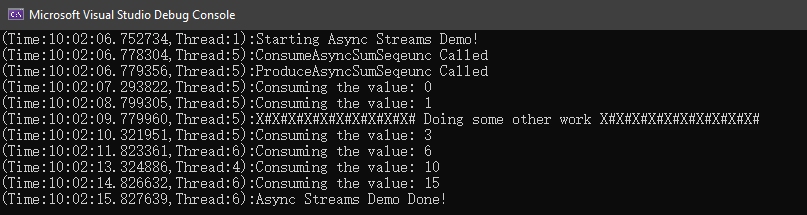
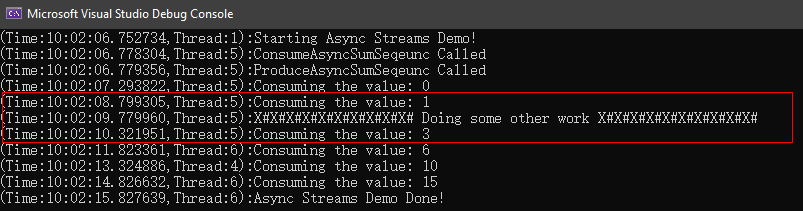
Add

Changed region(s): [[0.0, 0.1422, 0.9963, 0.9668], [0.0, 0.0284, 0.3113, 0.1137]]

diff --git a/README.md b/README.md
@@ -1,11 +1,269 @@
 # AsyncStreamsInCShaper8.0
 
-很开心今天能与大家一起聊聊C# 8.0中的新特性-`Async Stream`,一般人通常看到这个词表情是这样.  
+很开心今天能与大家一起聊聊C# 8.0中的新特性-`Async Streams`,一般人通常看到这个词表情是这样.  
 <img src="https://raw.githubusercontent.com/liuzhenyulive/AsyncStreamsInCShaper8.0/master/Pic/mengbi.jpg" width="100" height="100"/>  
 简单说,其实就是C# 8.0中支持`await foreach`.  
 <img src="https://raw.githubusercontent.com/liuzhenyulive/AsyncStreamsInCShaper8.0/master/Pic/mengbi2.jpg" width="100" height="100"/>  
 或者说,C# 8.0中支持异步返回枚举类型`async Task<IEnumerable<T>>`.  
 <img src="https://raw.githubusercontent.com/liuzhenyulive/AsyncStreamsInCShaper8.0/master/Pic/mengbi3.jpeg" width="100" height="100"/>   
-好吧,还不懂?Good,这篇文章就是为你写的了.  
+好吧,还不懂?Good,这篇文章就是为你写的,看完这篇文章,你就能明白它的神奇之处了.  
 
-`await foreach`, 这个功能已经发布很久了,在去年的[Build 2018 The future of C#](https://channel9.msdn.com/Events/Build/2018/BRK2155)就有演示,最近VS 2019发布,在该版本的[Release Notes](https://docs.microsoft.com/en-us/visualstudio/releases/2019/release-notes)中,我再次看到了这个新特性,因为对异步编程不太熟悉,所以借着这个机会,学习新特性的同时,把异步编程也过一遍.
+## 为什么写这篇文章
+
+`Async Streams`这个功能已经发布很久了,在去年的[Build 2018 The future of C#](https://channel9.msdn.com/Events/Build/2018/BRK2155)就有演示,最近VS 2019发布,在该版本的[Release Notes](https://docs.microsoft.com/en-us/visualstudio/releases/2019/release-notes)中,我再次看到了这个新特性,因为对异步编程不太熟悉,所以借着这个机会,学习新特性的同时,把异步编程重温一遍.  
+本文内容,参考了`Bassam Alugili`在InfoQ中发表的[Async Streams in C# 8](https://www.infoq.com/articles/Async-Streams),撰写本博客前我已联系上该作者并得到他支持.
+
+## Async / Await
+
+C# 5 引入了 Async/Await，用以提高用户界面响应能力和对 Web 资源的访问能力。换句话说，异步方法用于执行不阻塞线程并返回一个标量结果的异步操作。
+
+微软多次尝试简化异步操作，因为 Async/Await 模式易于理解，所以在开发人员当中获得了良好的认可。
+
+详见[The Task asynchronous programming model in C#](https://docs.microsoft.com/en-us/dotnet/csharp/programming-guide/concepts/async/)
+
+## 常规示例
+
+要了解问什么需要`Async Streams`,我们先来看看这样的一个示例,求出5以内的整数的和.
+
+``` c#
+static int SumFromOneToCount(int count)
+        {
+            ConsoleExt.WriteLine("SumFromOneToCount called!");
+
+            var sum = 0;
+            for (var i = 0; i <= count; i++)
+            {
+                sum = sum + i;
+            }
+            return sum;
+        }
+```
+
+调用方法.
+
+``` c#
+static void Main(string[] args)
+        {
+            const int count = 5;
+            ConsoleExt.WriteLine($"Starting the application with count: {count}!");
+            ConsoleExt.WriteLine("Classic sum starting.");
+            ConsoleExt.WriteLine($"Classic sum result: {SumFromOneToCount(count)}");
+            ConsoleExt.WriteLine("Classic sum completed.");
+            ConsoleExt.WriteLine("################################################");
+        }
+```
+
+输出结果.
+
+<img src="https://github.com/liuzhenyulive/AsyncStreamsInCShaper8.0/raw/master/Pic/base.png" width="1000" height="200"/>  
+
+可以看到,整个过程就一个线程Id为1的线程自上而下执行,这是最基础的做法.
+
+## Yield Return
+
+接下来,我们使用[yield](https://docs.microsoft.com/en-us/dotnet/csharp/language-reference/keywords/yield)运算符使得这个方法编程延迟加载,如下所示.  
+
+``` c#
+static IEnumerable<int> SumFromOneToCountYield(int count)
+        {
+            ConsoleExt.WriteLine("SumFromOneToCountYield called!");
+
+            var sum = 0;
+            for (var i = 0; i <= count; i++)
+            {
+                sum = sum + i;
+
+                yield return sum;
+            }
+        }
+```
+
+主函数
+
+``` c#
+static void Main(string[] args)
+        {
+            const int count = 5;
+            ConsoleExt.WriteLine("Sum with yield starting.");
+            foreach (var i in SumFromOneToCountYield(count))
+            {
+                ConsoleExt.WriteLine($"Yield sum: {i}");
+            }
+            ConsoleExt.WriteLine("Sum with yield completed.");
+
+            ConsoleExt.WriteLine("################################################");
+            ConsoleExt.WriteLine(Environment.NewLine);
+        }
+```
+
+运行结果如下.
+
+<img src="https://github.com/liuzhenyulive/AsyncStreamsInCShaper8.0/raw/master/Pic/YeildReturn.png" width="1000" height="200"/>  
+
+正如你在输出窗口中看到的那样，结果被分成几个部分返回，而不是作为一个值返回。以上显示的累积结果被称为惰性枚举。但是，仍然存在一个问题，即 sum 方法阻塞了代码的执行。如果你查看线程ID，可以看到所有东西都在主线程1中运行,这显然不完美,继续改造.  
+
+## Async Return
+
+我们试着将async用于SumFromOneToCount方法(没有yield关键字).
+
+``` c#
+static async Task<int> SumFromOneToCountAsync(int count)
+        {
+            ConsoleExt.WriteLine("SumFromOneToCountAsync called!");
+
+            var result = await Task.Run(() =>
+            {
+                var sum = 0;
+
+                for (var i = 0; i <= count; i++)
+                {
+                    sum = sum + i;
+                }
+                return sum;
+            });
+
+            return result;
+        }
+```
+
+主函数.
+
+``` c#
+static async Task Main(string[] args)
+        {
+            const int count = 5;
+            ConsoleExt.WriteLine("async example starting.");
+            // Sum runs asynchronously! Not enough. We need sum to be async with lazy behavior.
+            var result = await SumFromOneToCountAsync(count);
+            ConsoleExt.WriteLine("async Result: " + result);
+            ConsoleExt.WriteLine("async completed.");
+
+            ConsoleExt.WriteLine("################################################");
+            ConsoleExt.WriteLine(Environment.NewLine);
+        }
+```
+
+运行结果.
+
+<img src="https://github.com/liuzhenyulive/AsyncStreamsInCShaper8.0/raw/master/Pic/AsyncReturn.png" width="1000" height="200"/>  
+
+我们可以看到计算过程是在另一个线程中运行，但结果仍然是作为一个值返回！
+
+如果我们想把惰性枚举（yield return）与异步方法结合起来,即返回Task<IEnumerable<T>,这怎么实现呢?
+
+## Task<IEnumerable<T>>
+
+我们根据假设把代码改造一遍,使用`Task<IEnumerable<T>>`来进行计算.
+
+<img src="https://github.com/liuzhenyulive/AsyncStreamsInCShaper8.0/raw/master/Pic/NotSupportError.png" width="1470" height="560"/> 
+
+可以看到,直接出现错误.
+
+## IAsyncEnumerable
+
+其实,在C# 8.0中Task<IEnumerable<T>>这种组合称为IAsyncEnumerable<T>。这个新功能为我们提供了一种很好的技术来解决拉异步延迟加载的问题，例如从网站下载数据或从文件或数据库中读取记录,与 IEnumerable<T> 和 IEnumerator<T> 类似，Async Streams 提供了两个新接口 IAsyncEnumerable<T> 和 IAsyncEnumerator<T>，定义如下：
+
+``` c#
+public interface IAsyncEnumerable<out T>
+    {
+        IAsyncEnumerator<T> GetAsyncEnumerator();
+    }
+
+    public interface IAsyncEnumerator<out T> : IAsyncDisposable
+    {
+        Task<bool> MoveNextAsync();
+        T Current { get; }
+    }
+
+   // Async Streams Feature 可以被异步销毁 
+   public interface IAsyncDisposable
+   {
+      Task DiskposeAsync();
+   }
+```
+
+## AsyncStream
+
+下面,我们就来见识一下AsyncStrema的威力,我们使用IAsyncEnumerable来对函数进行改造,如下.
+
+``` C#
+static async Task ConsumeAsyncSumSeqeunc(IAsyncEnumerable<int> sequence)
+        {
+            ConsoleExt.WriteLineAsync("ConsumeAsyncSumSeqeunc Called");
+
+            await foreach (var value in sequence)
+            {
+                ConsoleExt.WriteLineAsync($"Consuming the value: {value}");
+
+                // simulate some delay!
+                await Task.Delay(TimeSpan.FromSeconds(1));
+            };
+        }
+
+        private static async IAsyncEnumerable<int> ProduceAsyncSumSeqeunc(int count)
+        {
+            ConsoleExt.WriteLineAsync("ProduceAsyncSumSeqeunc Called");
+            var sum = 0;
+
+            for (var i = 0; i <= count; i++)
+            {
+                sum = sum + i;
+
+                // simulate some delay!
+                await Task.Delay(TimeSpan.FromSeconds(0.5));
+
+                yield return sum;
+            }
+        }
+```
+
+主函数.
+
+``` c#
+ static async Task Main(string[] args)
+        {
+            const int count = 5;
+            ConsoleExt.WriteLine("Starting Async Streams Demo!");
+
+            // Start a new task. Used to produce async sequence of data!
+            IAsyncEnumerable<int> pullBasedAsyncSequence = ProduceAsyncSumSeqeunc(count);
+
+            // Start another task; Used to consume the async data sequence!
+            var consumingTask = Task.Run(() => ConsumeAsyncSumSeqeunc(pullBasedAsyncSequence));
+
+            await Task.Delay(TimeSpan.FromSeconds(3));
+
+            ConsoleExt.WriteLineAsync("X#X#X#X#X#X#X#X#X#X# Doing some other work X#X#X#X#X#X#X#X#X#X#");
+
+            // Just for demo! Wait until the task is finished!
+            await consumingTask;
+
+            ConsoleExt.WriteLineAsync("Async Streams Demo Done!");
+        }
+```
+
+如果一切顺利,那么就能看到这样的运行结果了.
+
+<img src="https://github.com/liuzhenyulive/AsyncStreamsInCShaper8.0/raw/master/Pic/AsyncStream.png" width="1000" height="300"/> 
+
+最后,看到这就是我们想要的结果,在枚举的基础上,进行了异步迭代.  
+可以看到,整个计算过程并没有造成主线程的阻塞,其中,值得重点关注的是红色方框区域,线程5在请求下一个结果后,并没有等待结果返回,而是去了Main()函数中做了别的事情,等待请求的结果返回后,线程5又接着进行计算.  
+
+## Client/Server的异步拉取
+
+如果还没有理解`Async Streams`的好处,那么我借助客户端 / 服务器端架构是演示这一功能优势的绝佳方法。
+
+### 同步调用
+
+### 异步调用
+
+## Tips
+
+如果你使用的是`.net core 2.2`及以下版本,会遇到这样的报错.
+
+<img src="https://github.com/liuzhenyulive/AsyncStreamsInCShaper8.0/raw/master/Pic/NotSupportAsyncStream2.2.png" width="1000" height="300"/> 
+
+需要安装`.net core 3.0 preview`的SDK(截至至博客撰写日期4月9日,`.net core SDK`最新版本为`3.0.100-preview3-010431`),安装好SDK后,如果你是VS 2019正式版,可能无法选择3.0的与预览版,听过只有VS 2019 Preview才支持.Net core 3.0的预览版.
+
+<img src="https://github.com/liuzhenyulive/AsyncStreamsInCShaper8.0/raw/master/Pic/TheSupportToCore3.0PreView.png" width="1000" height="300"/>  
+
